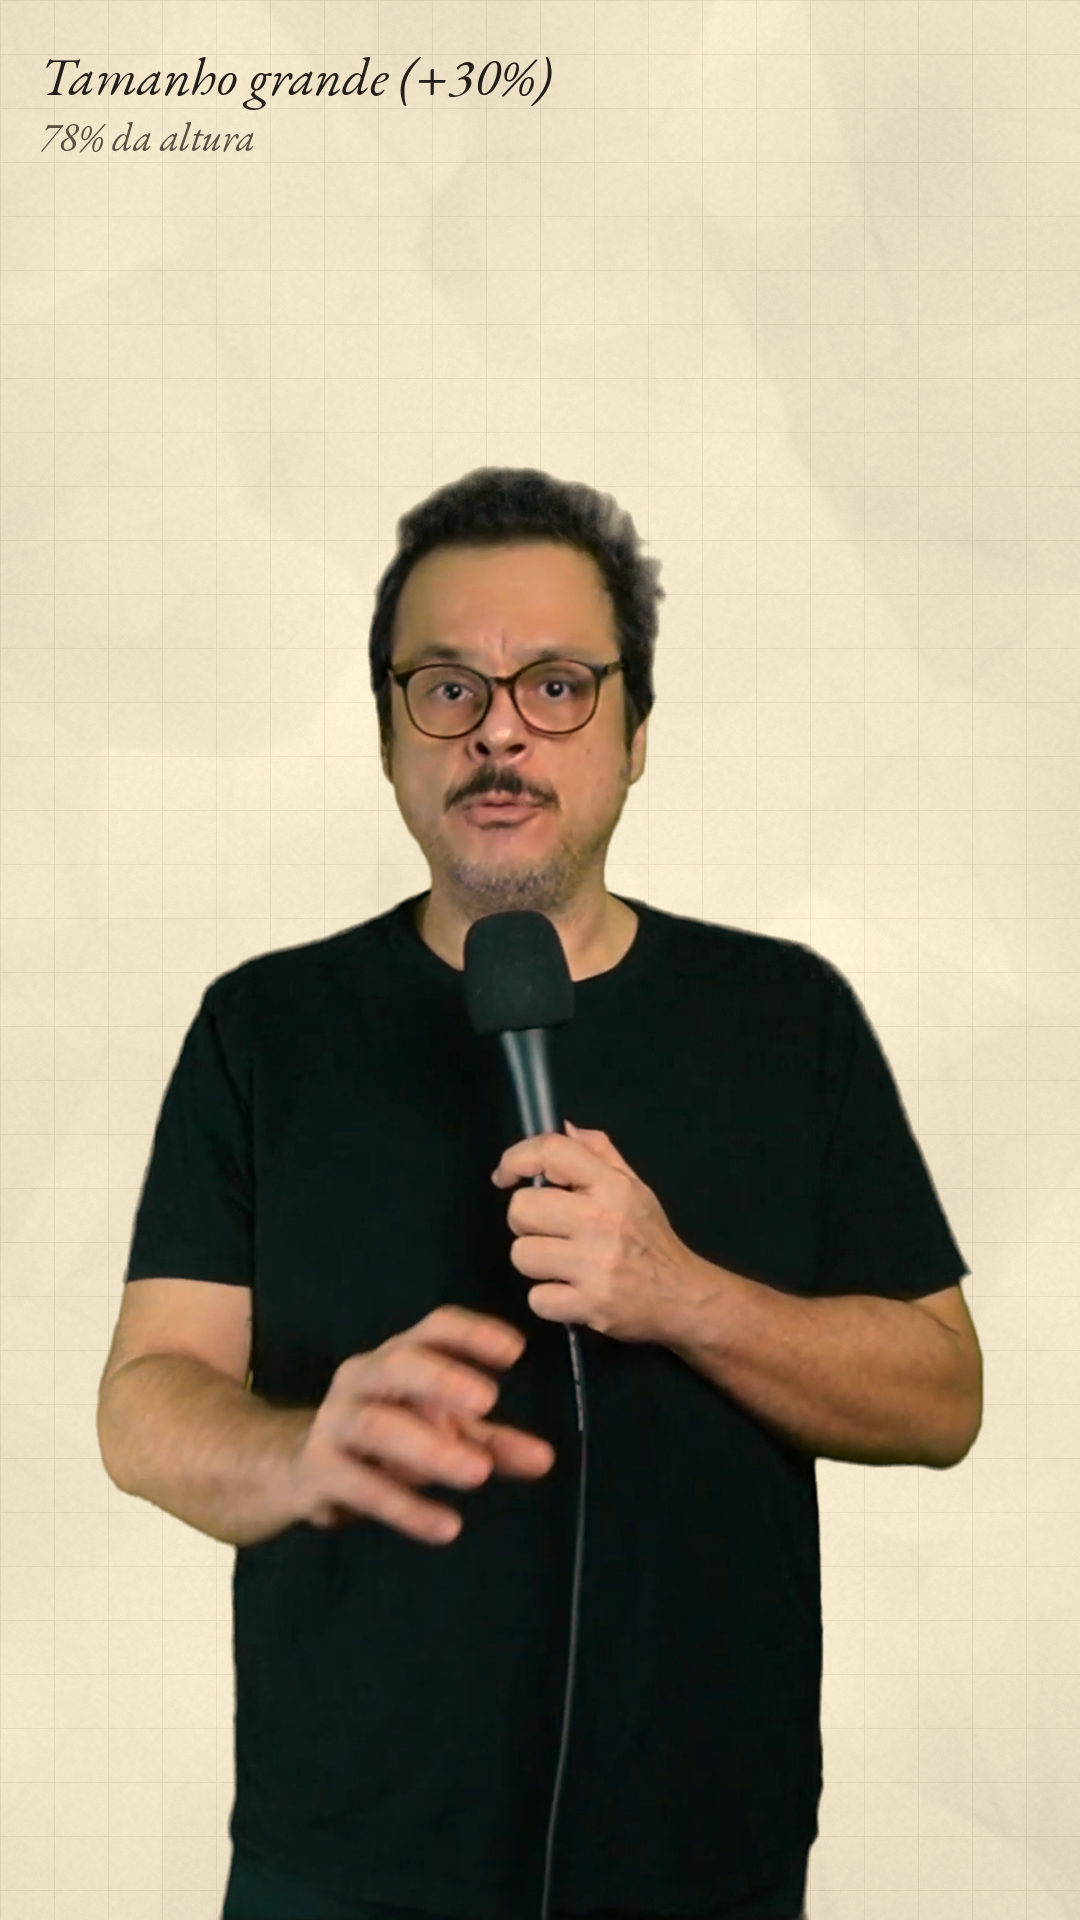
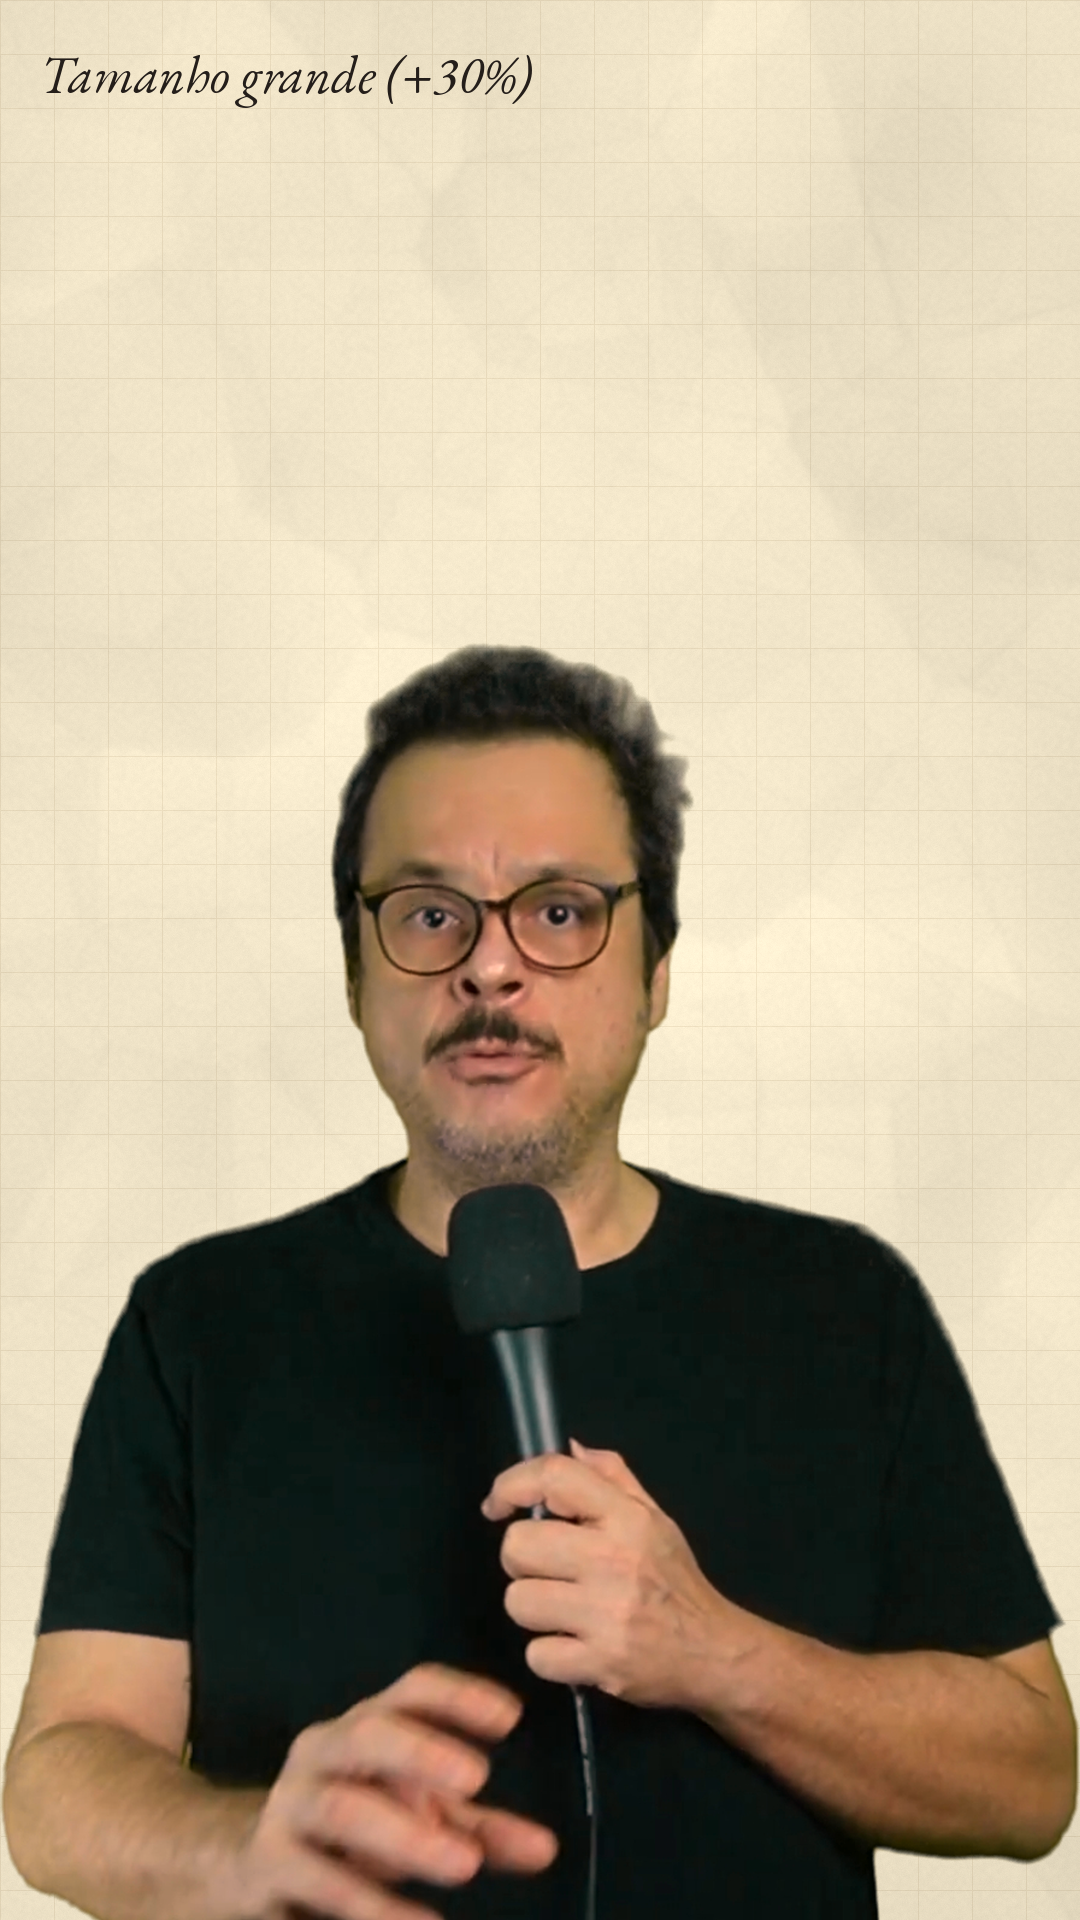
Ajusta o tamanho zero do apresentador ao print do usuário e registra no HANDOFF
Claude-Session: https://claude.ai/code/session_01R8k4G3x5QgZbjJ3RJ5mBZ3

diff --git a/motion-graphics/HANDOFF.md b/motion-graphics/HANDOFF.md
@@ -61,6 +61,14 @@ t.duracao          # entrada + leitura + saída
 - Teste: `python3 demos/demo_balanco.py` (três recortes simultâneos, gera `demos/saida/balanco.mp4`, cerca de 50 s).
 - `demos/demo_bola.py` continua quebrado fora da pasta original (importa `montar` e lê `cut/`).
 
+## Apresentador no episódio de teste
+- Recorte: `episodio-teste/saida/apresentador_recorte.png` (chroma + grade 0,26). Origem: print do vídeo dele em chroma.
+- **Tamanho zero (medido sobre o print que ele mandou):** o recorte é escalado a 0,927 do tamanho nativo (largura 839 px no canvas 1080x1920),
+  centralizado, topo do cabelo em y = 898 (cerca de 47% da altura), cortado pelo rodapé. A cabeça tem cerca de 266 px de largura.
+- **Tamanho grande:** zero x 1,3, com o rodapé fixo (topo do cabelo em y = 592). A âncora do zoom foi suposta (rodapé), ele não confirmou.
+- Cada frase muda de tamanho (zero para grande e volta), para dar ênfase e quebrar o ritmo. Ele pode ficar na frente do infográfico.
+- Quadros de conferência: `episodio-teste/saida/quadro_zero.png` e `quadro_grande.png`.
+
 ## Próximo passo
 **Episódio de teste em andamento.** O roteiro de 90 s está em `episodio-teste/roteiro.md` (226 palavras). O usuário vai gravar.
 Com a gravação: transcrever com tempos por palavra, fazer as peças que faltam (infográfico de Hebb, citação entre aspas,
